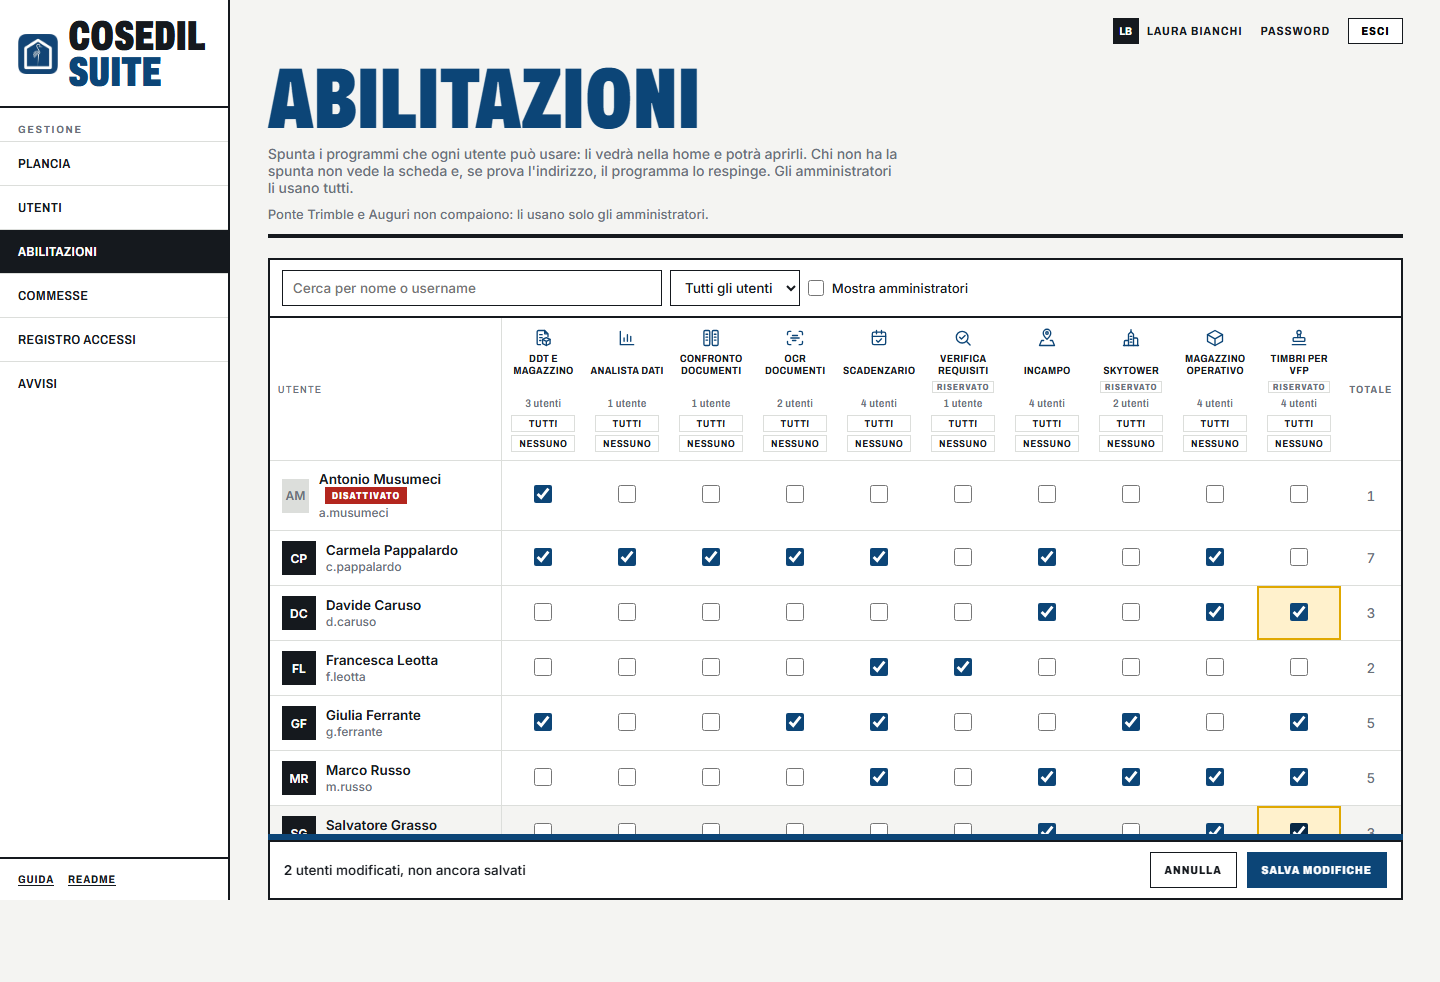
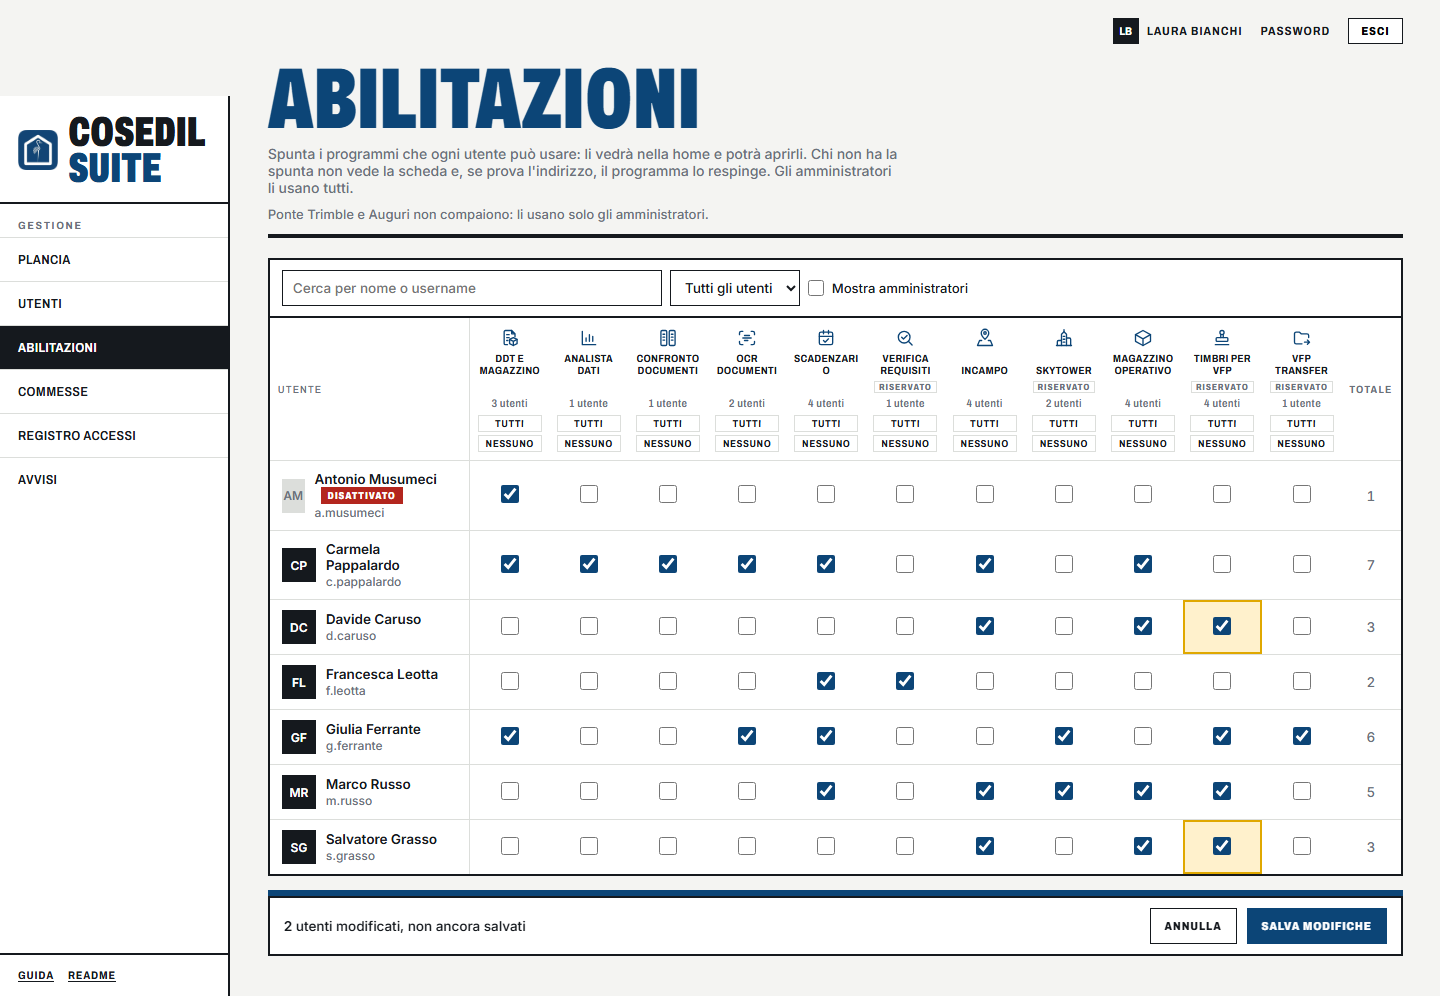
docs(portale): guida e README su proprietario della suite, ruolo e nome
Capitolo 4 della guida con i paragrafi 4.7 (proprietario e amministratori) e 4.8 (cambiare
ruolo e nome), indice e appendice 8 aggiornati, README del portale. Immagini rifatte su un
portale di prova con utenti inventati: 30-utenti (vista del proprietario), 37 e 38
abilitazioni (colonna VFP Transfer), nuova 30b-utenti-altro-admin (vista di un admin che non
è il proprietario, con i comandi bloccati).

diff --git a/portale/docs/guida/04-utenti.md b/portale/docs/guida/04-utenti.md
@@ -7,7 +7,11 @@ Dalla plancia, nella colonna di sinistra, premi **Gestione → Utenti**. Qui cre
 scegli quali programmi vede ognuno, reimposti le password e disattivi chi non deve più
 entrare. Per i programmi di tutti insieme c'è la pagina **Abilitazioni** (paragrafo 4.2b).
 
-![La pagina Utenti](img/30-utenti.png)
+Il profilo che dai qui (ruolo, nome, email, programmi, attivo o disattivato) vale **in tutti
+i programmi della suite**. Gli **amministratori** li crea, li cambia e li elimina solo il
+**proprietario della suite** (paragrafo 4.7).
+
+![La pagina Utenti vista dal proprietario della suite](img/30-utenti.png)
 
 In alto quattro numeri: **Utenti** (e quanti sono amministratori), **Attivi**, **Password
 da cambiare** al prossimo accesso, **Disattivati**.
@@ -16,13 +20,13 @@ Nella tabella, per ogni persona:
 
 | Colonna | Cosa contiene |
 |---|---|
-| **Utente** | Nome e cognome, sotto lo username |
+| **Utente** | Nome e cognome, sotto lo username e il pulsante **Nome** per cambiarlo (paragrafo 4.8) |
 | **Email** | L'email con cui InCampo e SkyTower riconoscono la persona. Se c'è scritto *dedotta* non è stata impostata e vale `username@cosedilspa.com`. Il pulsante **Email** la cambia. |
-| **Ruolo** | *Utente* oppure *Admin* |
+| **Ruolo** | *Utente* oppure *Admin*. Il proprietario della suite qui ha un menu per cambiarlo (paragrafo 4.8); sulla sua riga c'è *Proprietario* |
 | **Stato** | *Attivo*, *Password da cambiare* (deve ancora scegliere la sua) o *Disattivato* |
 | **Programmi** | Quanti programmi vede; clic per vederli e cambiarli. Per gli amministratori *Tutti (admin)*. |
 | **Creato** | Data di creazione |
-| (azioni) | **Password**, **Disattiva** / **Riattiva**, **Elimina**. Sulla tua riga c'è scritto *Sei tu*. |
+| (azioni) | **Password**, **Disattiva** / **Riattiva**, **Elimina**. Sulla tua riga c'è scritto *Sei tu*, su quella del proprietario *Proprietario*. |
 
 Per trovare qualcuno usa **Cerca per nome o username**; il menu accanto filtra **Attivi**,
 **Password da cambiare**, **Disattivati** o **Amministratori**.
@@ -36,6 +40,7 @@ Per trovare qualcuno usa **Cerca per nome o username**; il menu accanto filtra *
 3. **Email** è facoltativa ma consigliata se la persona userà InCampo o SkyTower: deve
    essere **esattamente** quella del suo account in quei programmi.
 4. Scegli il **Ruolo**: *Utente* oppure *Amministratore* (vede tutto e gestisce il Portale).
+   *Amministratore* compare solo al proprietario della suite.
 5. In **Programmi visibili** spunta i programmi che deve vedere. All'apertura sono già
    spuntati tutti quelli non riservati: togli quelli che non servono.
 6. Premi **Crea utente**. Compare *Utente creato*.
@@ -62,8 +67,11 @@ Cosa sapere:
 - La modifica vale **subito**: il programma tolto sparisce dalla pagina iniziale della
   persona, e se prova ad aprirlo dall'indirizzo il programma le dice di chiedere
   l'abilitazione (al massimo dopo mezzo minuto).
-- I programmi segnati **riservato** (Verifica Requisiti, SkyTower, Timbri per VFP) non si danno per
-  abitudine: solo a chi ci lavora davvero.
+- I programmi segnati **riservato** (Verifica Requisiti, SkyTower, Timbri per VFP, VFP Transfer) non si
+  danno per abitudine: solo a chi ci lavora davvero.
+- **VFP Transfer** ha la casella ma non la scheda nella pagina iniziale: si apre dal PC
+  dell'ufficio dove è installato. La spunta decide chi può entrarci, con la password del
+  Portale o dal Portale.
 - Ponte Trimble e Auguri non hanno caselle: li vedono solo gli amministratori.
 - Ogni modifica resta scritta nel [Registro accessi](06-registro-e-avvisi.md) come
   *Abilitazioni*, con chi l'ha fatta e quando.
@@ -133,7 +141,14 @@ Reimpostare la password **sblocca** anche chi era bloccato per troppi tentativi 
   usare *Disattiva* se basta impedire l'accesso).
 
 Non puoi disattivare te stesso né l'ultimo amministratore attivo: il Portale resterebbe
-senza nessuno che lo possa gestire.
+senza nessuno che lo possa gestire. Il **proprietario della suite** non si disattiva e non si
+elimina mai, nemmeno da solo. Disattivare, riattivare ed eliminare un **amministratore** lo
+può fare solo il proprietario.
+
+La disattivazione vale in tutti i programmi: quelli che si aprono dal Portale chiudono subito
+la porta; SkyTower, InCampo, VFP Transfer e Analista Dati, che hanno account propri, la
+controllano al **prossimo accesso** della persona, anche se entra con la password del
+programma.
 
 ![Il filtro sugli utenti disattivati](img/36-utenti-disattivati.png)
 
@@ -151,7 +166,9 @@ Per caricare molte persone insieme premi **Importa da Excel**.
 4. Premi **Importa**.
 
 Il Portale dice quanti utenti ha aggiunto e quali righe ha scartato e perché (username
-mancante o non valido, password troppo corta, username già esistente). Tutti gli importati
+mancante o non valido, password troppo corta, username già esistente; per chi non è il
+proprietario della suite anche le righe con ruolo *admin*: gli amministratori li crea solo
+lui). Tutti gli importati
 dovranno cambiare la password al primo accesso e partono con i programmi predefiniti (tutti
 tranne i riservati): sistemali poi con il pulsante *N programmi*.
 
@@ -162,3 +179,42 @@ esattamente** con quella del loro account. Se una persona entra nel Portale ma I
 SkyTower le chiedono di nuovo le credenziali, controlla la colonna **Email**: premi
 **Email** sulla sua riga e scrivi l'indirizzo giusto (lasciando vuoto torna
 `username@cosedilspa.com`).
+
+## 4.7 Amministratori: solo il proprietario della suite
+
+Il **proprietario della suite** è un amministratore speciale: è l'unico che può
+
+- creare un nuovo amministratore (anche dall'import Excel);
+- rendere amministratore un utente o togliere il ruolo a un amministratore;
+- cambiare password, email, nome e programmi di un amministratore, disattivarlo, riattivarlo
+  ed eliminarlo.
+
+Gli altri amministratori gestiscono tutti gli **utenti normali** come sempre, ma sulle righe
+degli amministratori trovano i pulsanti spenti e un lucchetto accanto ad *Admin*: passando
+col mouse compare *Solo il proprietario della suite gestisce gli amministratori*.
+
+![La pagina Utenti vista da un amministratore che non è il proprietario](img/30b-utenti-altro-admin.png)
+
+Il proprietario resta sempre amministratore: nessuno, nemmeno lui, lo può disattivare,
+eliminare o far tornare utente. Chi sia lo decide chi installa il Portale (vedi
+l'[appendice per l'amministratore di sistema](08-amministratore-di-sistema.md)).
+
+Essere amministratore nel Portale vuol dire esserlo **in tutti i programmi della suite**;
+toglierlo nel Portale lo toglie anche nei programmi, dal prossimo accesso della persona.
+
+## 4.8 Cambiare ruolo e nome
+
+**Ruolo** (solo il proprietario della suite): nella colonna **Ruolo** scegli *Utente* o
+*Amministratore* dal menu della riga. Il Portale chiede conferma spiegando cosa cambia:
+
+- chi diventa amministratore vede tutti i programmi e la gestione del Portale, ed è
+  amministratore anche nei programmi della suite;
+- chi torna utente perde subito la gestione del Portale e, dal suo prossimo accesso,
+  l'amministrazione nei programmi.
+
+In entrambi i casi la persona viene scollegata e rientra col ruolo nuovo. Nel Registro
+accessi resta *Cambio ruolo* con chi l'ha fatto e quando.
+
+**Nome**: premi **Nome** sotto lo username e scrivi nome e cognome. Vale subito nel Portale
+e, nei programmi della suite, dopo pochi secondi o al prossimo accesso. Il nome di un
+amministratore lo cambia solo il proprietario. Nel Registro accessi resta *Cambio nome*.

diff --git a/portale/README.md b/portale/README.md
@@ -42,7 +42,8 @@ Persa prima di cambiarla: fermare il portale, cancellare `data/utenti.json` e ri
 - `PORT` — porta di ascolto (default `8080`).
 - `HOST` — indirizzo di ascolto (default `127.0.0.1`). Per un **server centrale in LAN** usare `0.0.0.0`: gli altri PC si collegano a `http://IP-DEL-SERVER:8080`.
 - `DATA_DIR` — cartella dei dati (default `./data`).
-- `ADMIN_USER` — nome dell'amministratore creato al primo avvio (default `admin`).
+- `ADMIN_USER` — nome dell'amministratore creato al primo avvio (default `admin`); nasce **proprietario della suite**.
+- `PORTALE_PROPRIETARIO` — username del **proprietario della suite** (vince sul campo `proprietario` di `data/utenti.json`; deve essere un admin attivo). Vedi *Proprietario della suite e profilo valido ovunque*.
 - `SUITE_DOMINIO` — dominio del server (es. `esempio.lan`): app su `https://<cartella>.<dominio>`, portale su `https://portale.<dominio>`, cookie di sessione per tutto il dominio. `SUITE_SCHEMA=http` solo se il proxy non fa TLS.
 - `WARM_APPS` — app da **avviare a caldo** e tenere accese, separate da virgola (es. `ocr,agente`), oppure `all`. In alternativa si usa `data/warm.json`.
 - `TRUST_PROXY` — impostare a `1` se il portale è dietro un reverse proxy (nginx/IIS): legge l'IP client da `X-Forwarded-For`.
@@ -84,6 +85,17 @@ Dalla pagina **Utenti** (`/utenti`, voce *Gestione → Utenti* nella barra di si
 
 - **Password** → `POST /api/utenti/<username>/password` con `{ password }` (min 8 caratteri) o vuoto per una temporanea generata, restituita una sola volta. Imposta `mustChange`, incrementa `sv` (scollega le sessioni aperte) e toglie il blocco per tentativi falliti. Registrato come `reset-password`.
 - **Disattiva / Riattiva** → `PUT /api/utenti/<username>/attivo` con `{ attivo }`. Campo `disattivato` in `utenti.json`: il login risponde *Account disattivato* (solo a chi ha la password giusta) e `getSession` scarta i suoi cookie, quindi anche il gate SSO delle app. Non si può disattivare se stessi né l'ultimo admin attivo. Registrato come `disattiva`/`riattiva`.
+- **Ruolo** (solo il proprietario della suite) → `PUT /api/utenti/<username>/ruolo` con `{ ruolo: "admin" | "utente" }`. Incrementa `sv` (la persona rientra col ruolo nuovo). Registrato come `ruolo-utente` (`da`, `a`).
+- **Nome** → `PUT /api/utenti/<username>/nome` con `{ nome }` (max 80 caratteri). Nessuna sessione da rifare: nome e ruolo si leggono dal disco a ogni richiesta. Registrato come `nome-utente`.
+
+### Proprietario della suite e profilo valido ovunque
+
+Dall'11/11/2026 (decisione: "gli admin li creo e li cancello solo io") il profilo del portale vale in tutti i programmi e gli amministratori li gestisce solo il **proprietario della suite**: `"proprietario": true` in `data/utenti.json` o `PORTALE_PROPRIETARIO=<username>`. All'avvio, un `utenti.json` senza proprietario e con un solo admin attivo lo prende da solo (`assicuraProprietario`, riga `proprietario` nel registro); l'admin del primo avvio e quello di `installa-credenziali.js` nascono proprietari.
+
+- Solo il proprietario crea admin (anche dall'import: le righe `admin` degli altri si scartano), cambia ruoli e, sugli admin, password, email, nome, programmi, disattiva/riattiva/elimina, "reimposta" una richiesta di aiuto. Gli altri admin: `403 Solo il proprietario della suite gestisce gli amministratori` (`controlloAmministratori`). Nessuno disattiva, elimina o declassa il proprietario (`400`). La pagina Utenti mostra *Proprietario*, il menu del ruolo solo a lui e, agli altri admin, le righe admin con i comandi spenti.
+- `getSession` legge **ruolo e nome dal disco** (non dal cookie): un admin declassato perde subito l'area amministrazione e `/api/verify` dà alle app i valori di adesso, più `proprietario`.
+- `POST /api/suite/profilo` (token della suite, corpo `{ login, app }`, `profiloPerApp`): `{ ok, trovato, username, nome, email, ruolo, admin, proprietario, disattivato, mustChange, abilitato }` o `{ ok, trovato: false }`. Lo chiedono a ogni login SkyTower, InCampo, VFP Transfer e Analista Dati per dare e togliere l'admin, aggiornare nome ed email e respingere chi è disattivato o senza quel programma. Helper `cosedil_sso.profilo` / `profiloPortale` in `shared/sso`. Contratto completo: `shared/suite/CONTRATTI.md` § 12.
+- **VFP Transfer** è nel registro `APPS` (`riservata`, `senzaTessera`): casella in Utenti e Abilitazioni, niente tessera, avvio o stato dal portale (gira sul PC dell'ufficio).
 
 ### Chi vede quali programmi
 
@@ -164,7 +176,7 @@ Le app della suite condividono la sessione del portale: inoltrano il cookie del 
 La password del portale vale in ogni programma (06/11/2026); le password proprie dei programmi restano valide come riserva.
 
 - **Analista Dati** e **Lettore DDT** aprono da soli la sessione dell'account con lo stesso username del portale (Analista lo crea se manca; DDT no: gli account DDT li crea l'amministratore). In **DDT e Magazzino** la commessa si sceglie all'ingresso dal registro della suite.
-- **SkyTower**, **InCampo** (anche l'app per telefono) e **VFP Transfer**, quando la loro password non coincide, chiedono al portale `POST /api/verifica-password` (header `X-Suite-Token`, corpo `{ login, password, app, ip }`; funzione `verificaPasswordApp` in `server.js`). Il portale riconosce la persona da username o email, applica gli stessi blocchi del login (sull'IP della persona, passato dal programma), rifiuta account disattivati, password temporanee non ancora cambiate e programmi non abilitati, e scrive `login-app` nel registro accessi.
+- **SkyTower**, **InCampo** (anche l'app per telefono) e **VFP Transfer**, quando la loro password non coincide, chiedono al portale `POST /api/verifica-password` (header `X-Suite-Token`, corpo `{ login, password, app, ip }`; funzione `verificaPasswordApp` in `server.js`). Il portale riconosce la persona da username o email, applica gli stessi blocchi del login (sull'IP della persona, passato dal programma), rifiuta account disattivati, password temporanee non ancora cambiate e programmi non abilitati (anche `vfp-transfer`, dall'11/11/2026 nel registro), e scrive `login-app` nel registro accessi. Dall'11/11/2026, a ogni login, anche `POST /api/suite/profilo` (vedi *Proprietario della suite e profilo valido ovunque*).
 - Dettagli e codici di risposta: `shared/suite/CONTRATTI.md` §2b; guida utente §1.8.
 
 ## Amministratore in base all'IP (per-app)

diff --git a/portale/docs/guida/README.md b/portale/docs/guida/README.md
@@ -21,7 +21,8 @@ Scadenzario e gli altri strumenti senza dover rifare l'accesso in ognuno.
 3. [La plancia](03-plancia.md): stato dei programmi, calendario, utenti e loro attività,
    richieste di aiuto
 4. [Utenti e abilitazioni](04-utenti.md): creare utenti, scegliere i programmi visibili
-   (anche tutti insieme nella pagina *Abilitazioni*), password, disattivazione, importazione da Excel
+   (anche tutti insieme nella pagina *Abilitazioni*), password, disattivazione, importazione da Excel,
+   ruolo e nome, il proprietario della suite che gestisce gli amministratori
 5. [Le commesse della suite](05-commesse.md): l'elenco unico dei codici commessa
 6. [Registro accessi e avvisi](06-registro-e-avvisi.md): chi ha fatto cosa e cosa segnalano
    i programmi
@@ -45,8 +46,9 @@ Scadenzario e gli altri strumenti senza dover rifare l'accesso in ognuno.
 | **Ponte Trimble**, **Auguri** | Strumenti solo per gli amministratori | dentro ciascun programma |
 
 **VFP Transfer** non si apre dal Portale: ha un accesso suo (vedi la
-[guida di VFP Transfer](../../../vfp-transfer-DMS/docs/guida/README.md)). I suoi avvisi però
-arrivano nella pagina *Avvisi* del Portale.
+[guida di VFP Transfer](../../../vfp-transfer-DMS/docs/guida/README.md)). Chi può usarlo però
+lo decide la sua casella nelle pagine *Utenti* e *Abilitazioni* (programma riservato), e i suoi
+avvisi arrivano nella pagina *Avvisi* del Portale.
 
 ## Chi vede cosa
 
@@ -56,8 +58,8 @@ programmi compaiono nella sua pagina iniziale (vedi [Utenti e abilitazioni](04-u
 - Un programma che non ti è stato assegnato **non compare** e non si apre nemmeno scrivendo
   l'indirizzo a mano: il programma risponde che devi chiedere l'abilitazione a un
   amministratore.
-- Alcuni programmi sono **riservati** (oggi Verifica Requisiti, SkyTower e Timbri per VFP): li vede solo chi
-  li ha avuti assegnati espressamente.
+- Alcuni programmi sono **riservati** (oggi Verifica Requisiti, SkyTower, Timbri per VFP e VFP Transfer):
+  li vede solo chi li ha avuti assegnati espressamente.
 - Se un collega vede un programma che tu non hai, non è un guasto: chiedi l'abilitazione a
   un amministratore.
 

diff --git a/portale/docs/guida/08-amministratore-di-sistema.md b/portale/docs/guida/08-amministratore-di-sistema.md
@@ -27,13 +27,21 @@ Portale, mettere da parte `data\utenti.json` e riavviare (viene ricreato il solo
 con una password nuova; gli altri utenti vanno poi ripresi dal file messo da parte o
 reimportati).
 
+**Proprietario della suite.** L'amministratore creato al primo avvio è anche il
+**proprietario della suite**: l'unico che crea, cambia ed elimina gli altri amministratori
+(capitolo 4.7). In `utenti.json` ha `"proprietario": true`. Su un Portale installato prima
+dell'11/11/2026 il campo lo prende da solo, al primo avvio, l'unico amministratore attivo
+(con più amministratori il Portale lo scrive nel log e lo si imposta a mano). Per indicarlo,
+o per passare la mano, si avvia il Portale con la variabile `PORTALE_PROPRIETARIO=<username>`,
+che vale più del file; deve essere un amministratore attivo.
+
 ## Dove stanno i dati
 
 Tutto in `data\` dentro la cartella del Portale (o nella cartella indicata da `DATA_DIR`):
 
 | File | Contenuto |
 |---|---|
-| `utenti.json` | Utenti, ruoli, programmi visibili, email. Le password sono salvate cifrate (scrypt), mai in chiaro. |
+| `utenti.json` | Utenti, ruoli, programmi visibili, email, proprietario della suite. Le password sono salvate cifrate (scrypt), mai in chiaro. |
 | `accessi.log` | Registro accessi, una riga per evento (con il dettaglio delle abilitazioni). |
 | `richieste.json` | Richieste di aiuto arrivate dal login. |
 | `avvisi.json` e cartella `avvisi-in\` | Avvisi dei programmi: i programmi lasciano un file nella cartella, il Portale lo raccoglie. |
